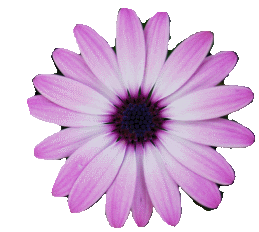
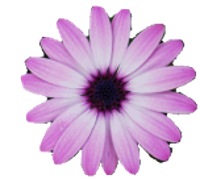
Add varying flower sizes
Add varying sizes of flowers for depth.

diff --git a/pygametest.py b/pygametest.py
@@ -20,7 +20,7 @@ class Flower(pygame.sprite.Sprite):
 
     def __init__(self):
         pygame.sprite.Sprite.__init__(self)
-        self.image = random.choice([pygame.image.load('flower.png').convert_alpha(),pygame.image.load('flower1.png').convert_alpha()])
+        self.image = random.choice([pygame.image.load('flower.png').convert_alpha(),pygame.image.load('flower1.png').convert_alpha(),pygame.image.load('flower2.png').convert_alpha(), pygame.image.load('flower4.png').convert_alpha()])
         self.image.set_alpha(120)
         self.mask = pygame.mask.from_surface(self.image)
         self.rect = self.image.get_rect()
